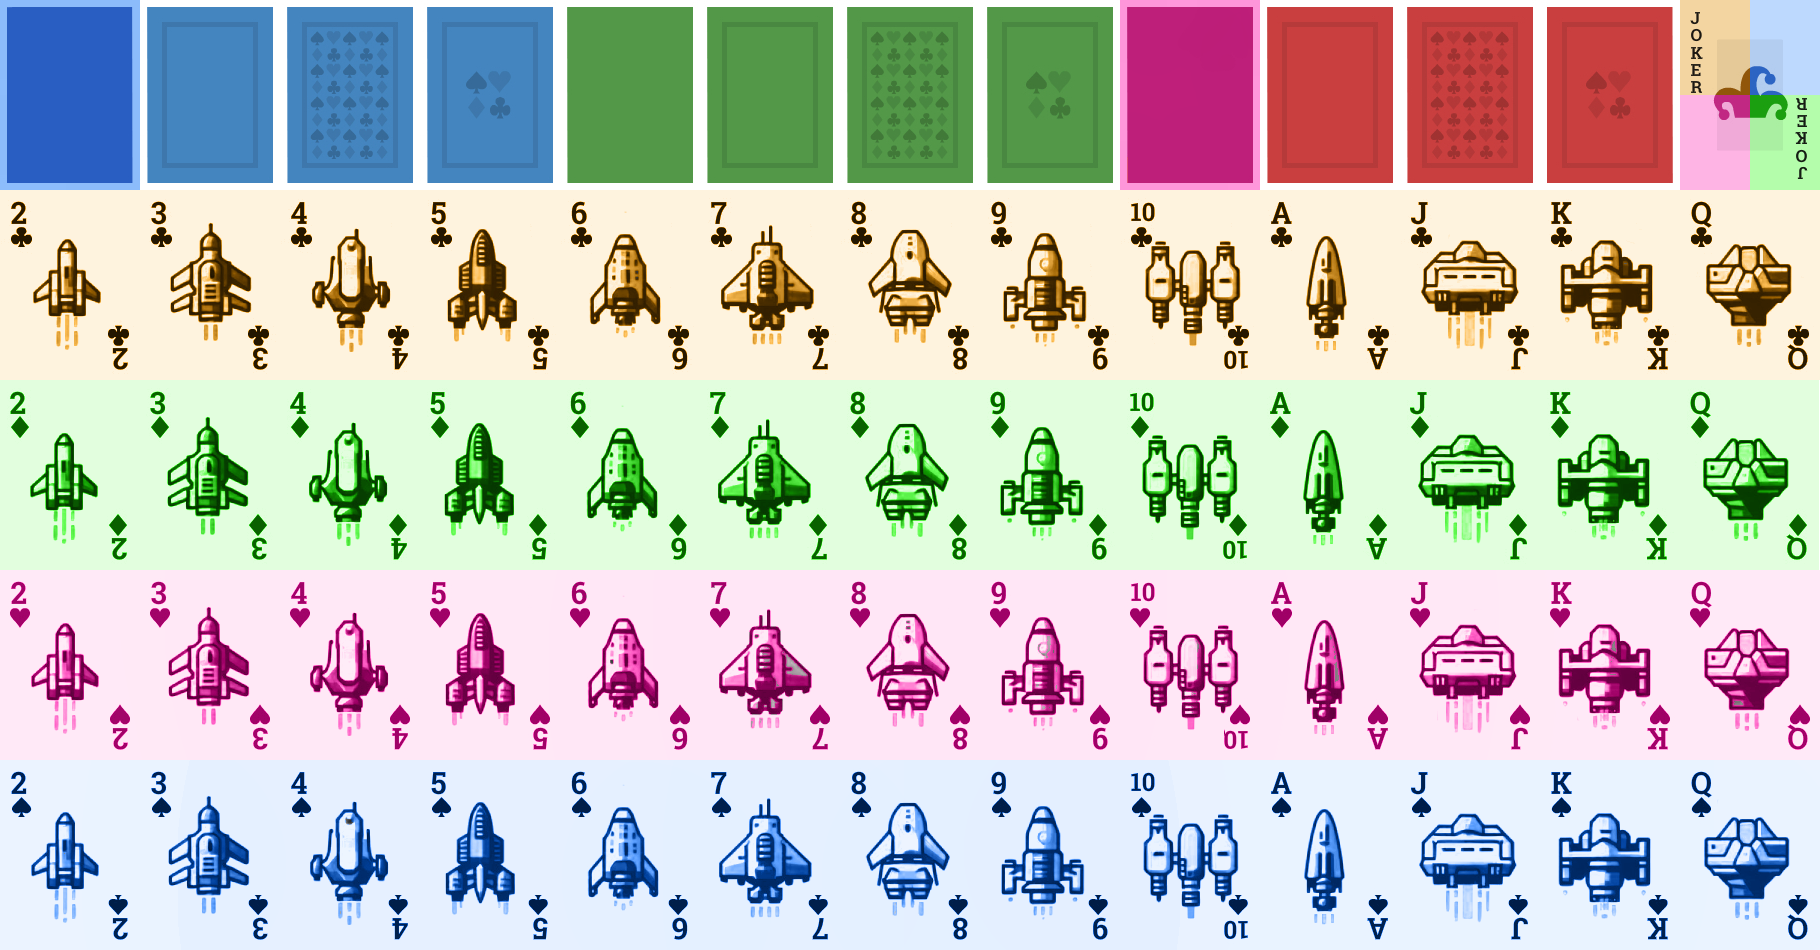
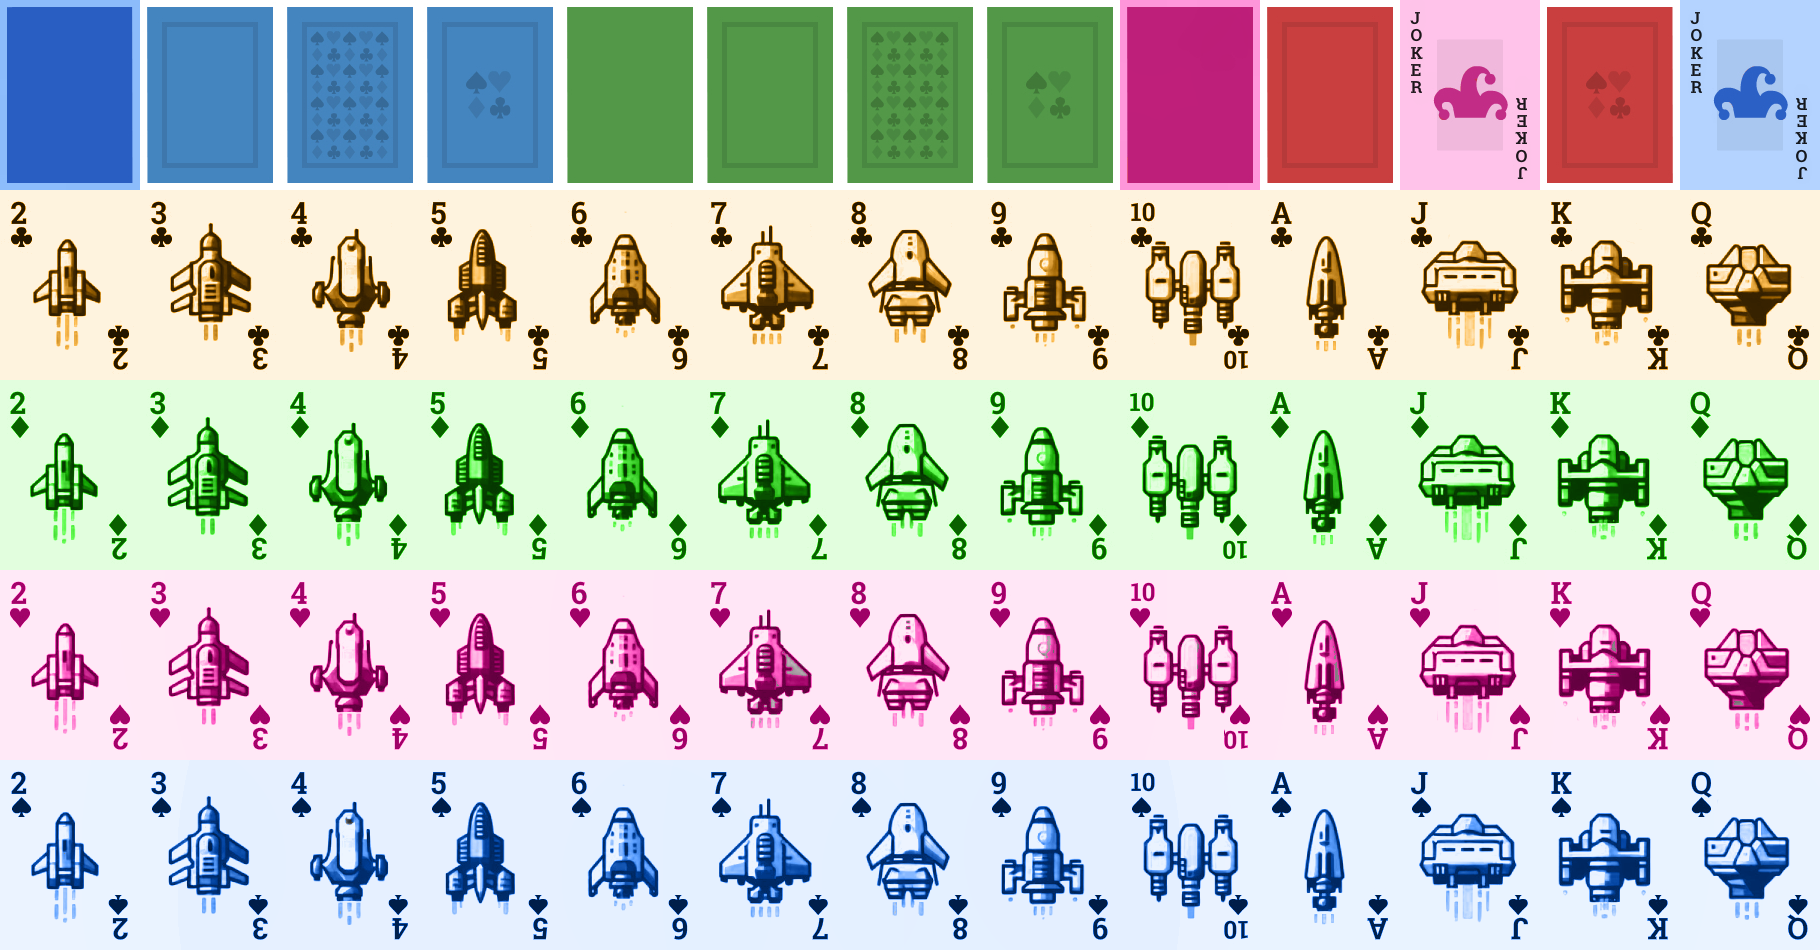
cleanup

Changed region(s): [[0.7692, 0.0, 0.8615, 0.2137], [0.9231, 0.0, 1.0, 0.2137]]

diff --git a/client/src/game/entities/Player.js b/client/src/game/entities/Player.js
@@ -23,8 +23,8 @@ export class Player {
         this.hand = this.createCards(state.cards.hand, this.isPlayer, this.positions.hand, true);
         this.frontline = this.createCards(state.cards.frontline, true, this.positions.frontline, false);
         this.rearguard = this.createCards(state.cards.rearguard, true, this.positions.rearguard, false);
-        this.jokerLeft = new Joker(this.cardsContainer, this.sheet, "J1", this.isPlayer? "B1" : "B2", state.cards.jokerLeft, this.positions.jokerLeft);
-        this.jokerRight = new Joker(this.cardsContainer, this.sheet, "J1", this.isPlayer? "B1" : "B2", state.cards.jokerRight, this.positions.jokerRight);
+        this.jokerLeft = new Joker(this.cardsContainer, this.sheet, this.isPlayer? "J1" : "J2", this.isPlayer? "B1" : "B2", state.cards.jokerLeft, this.positions.jokerLeft);
+        this.jokerRight = new Joker(this.cardsContainer, this.sheet, this.isPlayer? "J1" : "J2", this.isPlayer? "B1" : "B2", state.cards.jokerRight, this.positions.jokerRight);
 
         this.stance = "waiting";
 
